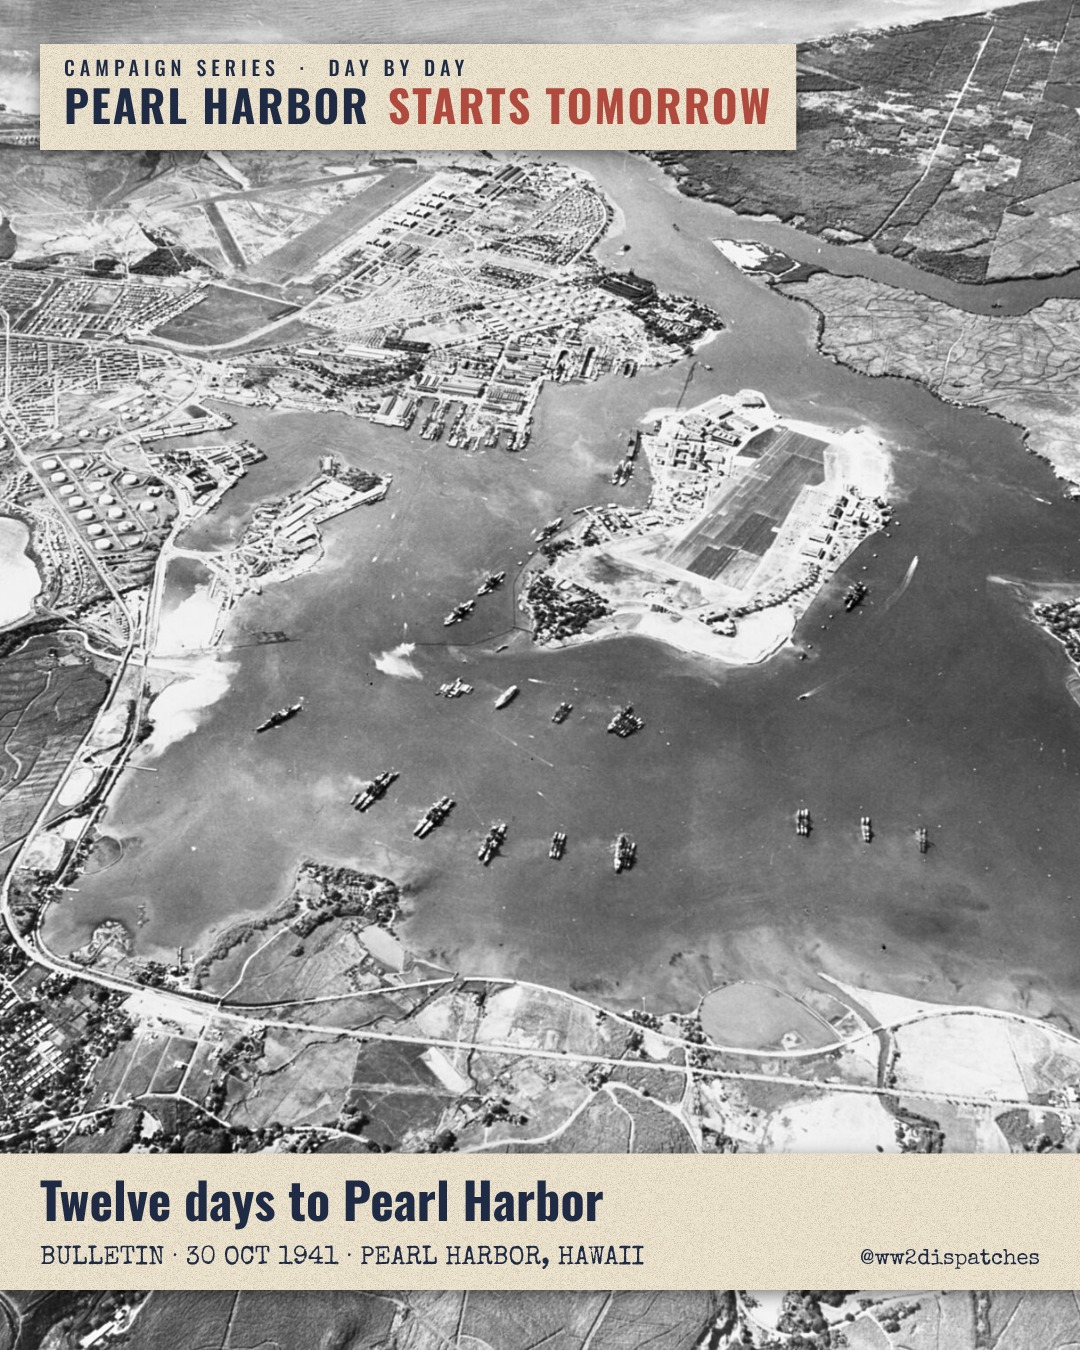
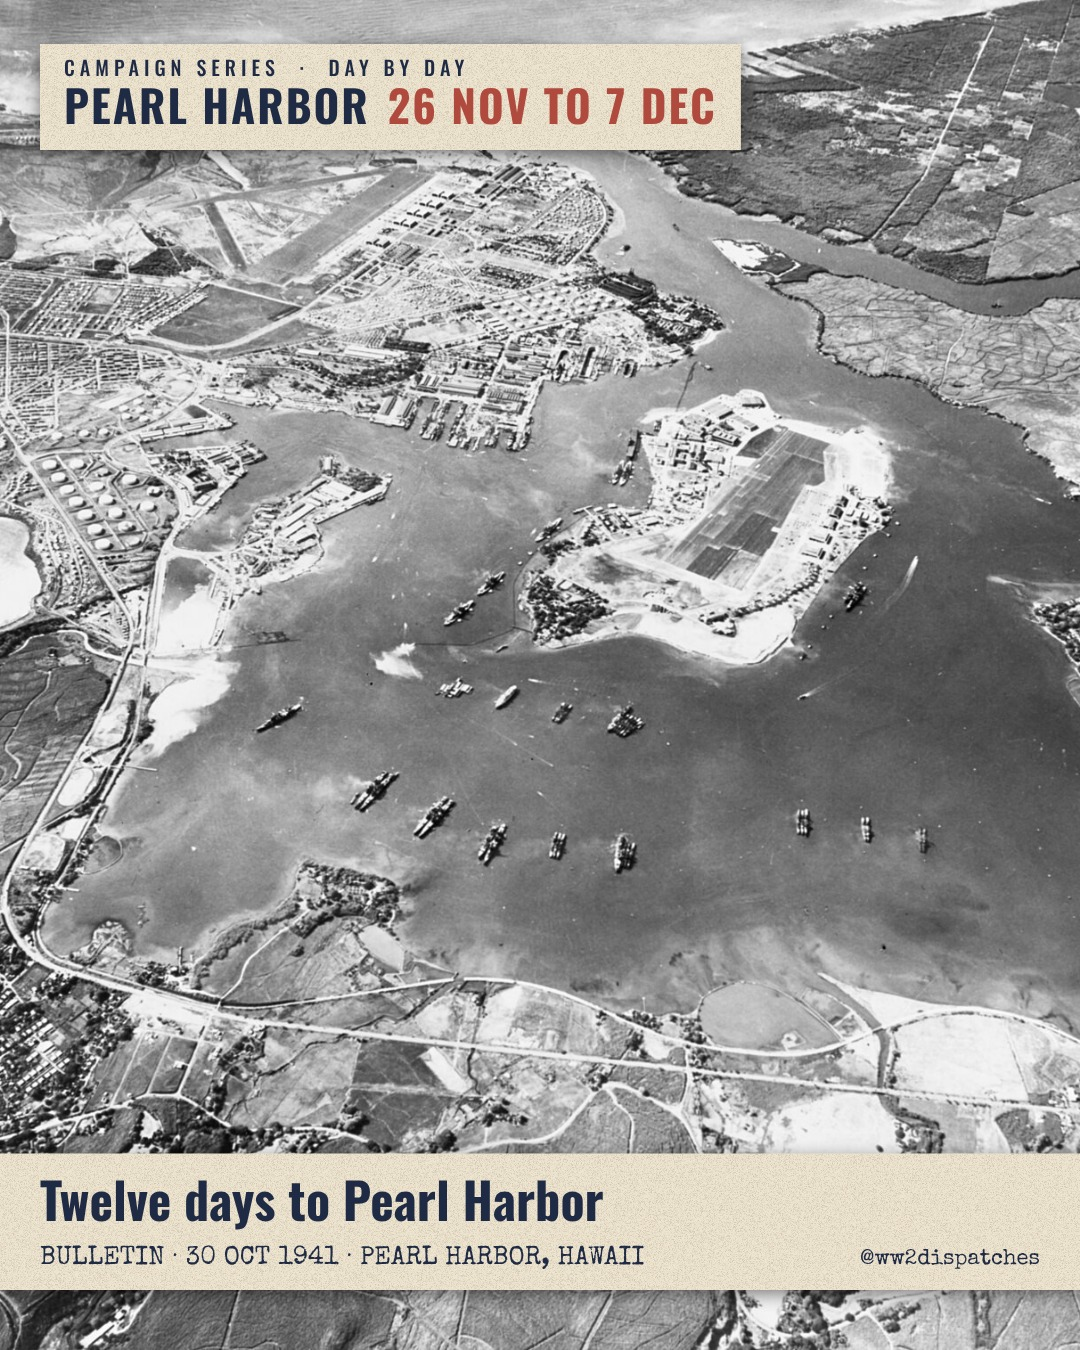
Kickoff image reads 26 Nov to 7 Dec so it works pinned
Claude-Session: https://claude.ai/code/session_01GNhz9tANy8K41JHyMyikD2

Changed region(s): [[0.3667, 0.0311, 0.7639, 0.1244]]

diff --git a/docs/WW2 Dispatches Campaign Series.md b/docs/WW2 Dispatches Campaign Series.md
@@ -110,7 +110,7 @@ Substack sets one theme for the whole publication (night background, brass gold,
 | 12 | 7 Dec | Five midget submarines in the dark | HA 19 aground, Dec 1941 |
 | Epilogue | 8 Dec | A date which will live in infamy | FDR signing the declaration of war, 8 Dec 1941 (LOC cph.3a17434) |
 
-**Kickoff and pin (decided 16 Nov 2026, Brian):** a kickoff post goes out **Wed 25 Nov 2026 at 6:00 p.m. Mountain** on X, Threads, Instagram, and Facebook (Buffer ids x 6afbc4d34b26315855b8da18, threads 6afbc4d485dca6b14a18bd2f, instagram 6afbc4d53e42cd001e4a01e8, facebook 6afbc4d585dca6b14a18c157), with its own image in the series look ("PEARL HARBOR STARTS TOMORROW" over the 30 Oct 1941 aerial of Pearl Harbor, `photos/campaign/ph-kickoff.jpg`; `images/kickoff-x.jpg` and `-instagram.jpg`, pinned to commit 8b435cc). It is not a day record, so the site never shows it. Brian pins it on X through 6 Dec, then swaps the pin to the 8 a.m. Flash card on the morning of 7 Dec (push reminders set for both). During the series the Lunch Drop carries each day's series story (Lunch Drop doc). Future series can open the same way.
+**Kickoff and pin (decided 16 Nov 2026, Brian):** a kickoff post goes out **Wed 25 Nov 2026 at 6:00 p.m. Mountain** on X, Threads, Instagram, and Facebook (Buffer ids x 6afbc4d34b26315855b8da18, threads 6afbc4d485dca6b14a18bd2f, instagram 6afbc4d53e42cd001e4a01e8, facebook 6afbc4d585dca6b14a18c157), with its own image in the series look ("PEARL HARBOR 26 NOV TO 7 DEC" over the 30 Oct 1941 aerial of Pearl Harbor, `photos/campaign/ph-kickoff.jpg`; `images/kickoff-x.jpg` and `-instagram.jpg`, re-rendered 16 Nov so it reads right all through the run, pinned to the newest commit in the Buffer posts). It is not a day record, so the site never shows it. Brian pins it on X through 6 Dec, then swaps the pin to the 8 a.m. Flash card on the morning of 7 Dec (push reminders set for both). During the series the Lunch Drop carries each day's series story (Lunch Drop doc). Future series can open the same way.
 
 **The Epilogue (decided 15 Nov 2026, Brian):** the series ends on the morning after, 8 Dec at 6:30, with an Epilogue covering everything that happened on the 7th and Roosevelt's speech and the vote for war. The 7th itself stays with the Flash day programming (Flash card, Flash Traffic bulletins, moment of silence), undisturbed. The Epilogue is `day-13.json` with `"epilogue": true` and `"dayLabel": "EPILOGUE"` (the image tab shows EPILOGUE in place of DAY N; footer "Campaign Series: Pearl Harbor · Day by Day · Epilogue"). The other posts keep "of 12". Any series may close with an Epilogue the same way. **For the Website chat:** treat a day record with `epilogue: true` as the series' Epilogue (label it Epilogue, not Day 13 of 12), and Pearl Harbor Part 3's `days` range becomes [9, 13] with five `##` sections.
 
